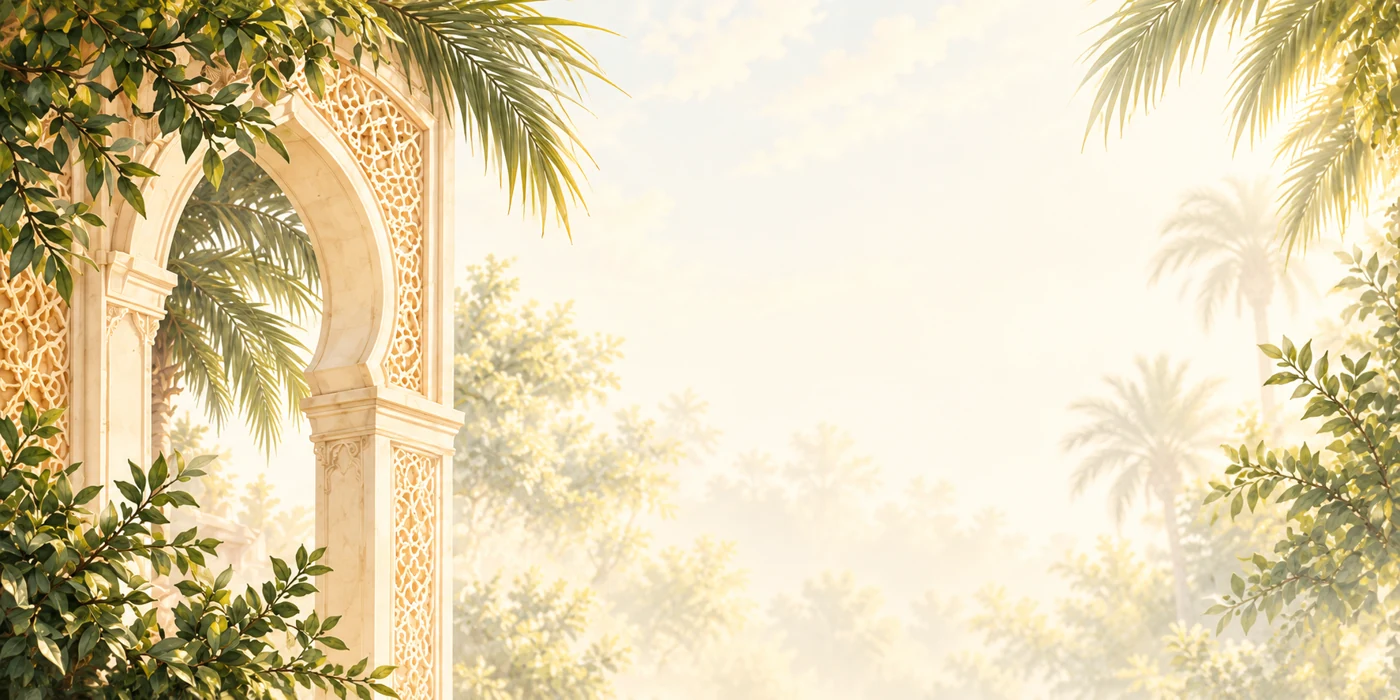
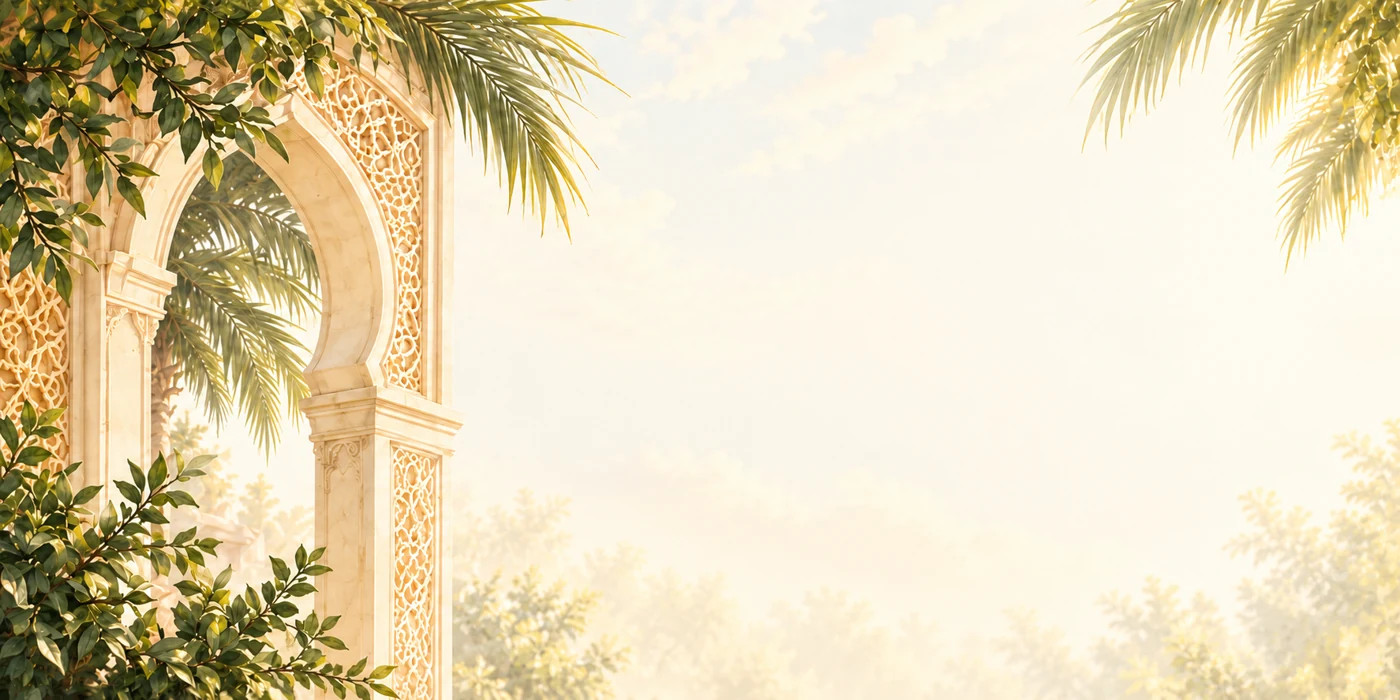
Align Ivory Home render to reference and verify 320dp navigation

diff --git a/lib/premium_ui.dart b/lib/premium_ui.dart
@@ -680,7 +680,7 @@ class _IvoryHome extends StatelessWidget {
 
   @override
   Widget build(BuildContext context) => ColoredBox(color: paper,
-    child: Center(child: ConstrainedBox(constraints: const BoxConstraints(maxWidth: 760),
+    child: Align(alignment: Alignment.topCenter, child: ConstrainedBox(constraints: const BoxConstraints(maxWidth: 760),
       child: LayoutBuilder(builder: (context, box) {
         final large = MediaQuery.textScalerOf(context).scale(14) > 20;
         final inset = box.maxWidth < 360 ? 10.0 : 13.0;
@@ -721,8 +721,8 @@ class _IvoryHome extends StatelessWidget {
       Stack(alignment: Alignment.topCenter, children: [
         SizedBox(height: 115 * unit, child: Center(child: Semantics(
           label: tr(context, 'شعار ورد'), image: true,
-          child: ExcludeSemantics(child: AppearanceWordmark(key: const Key('home-wordmark'),
-            width: 158 * unit, height: 112 * unit))))),
+          child: ExcludeSemantics(child: Transform.scale(scale: 1.35, child: AppearanceWordmark(key: const Key('home-wordmark'),
+            width: 158 * unit, height: 112 * unit)))))),
         Align(alignment: Alignment.topLeft, child: Row(mainAxisSize: MainAxisSize.min,
           textDirection: TextDirection.ltr, children: [
             _headerControl(context, 'home-settings', 'الإعدادات', Icons.settings_outlined,
@@ -754,15 +754,17 @@ class _IvoryHome extends StatelessWidget {
 
   Widget _surface({required String keyName, required AssetImage image,
       required Widget child, required VoidCallback onTap, Gradient? gradient,
-      double radius = 22}) => DecoratedBox(
+      double radius = 22, bool mirror = false}) => DecoratedBox(
     decoration: BoxDecoration(borderRadius: BorderRadius.circular(radius), boxShadow: const [
       BoxShadow(color: Color(0x0A70572D), offset: Offset(0, 3), blurRadius: 9)]),
     child: Material(color: paper, clipBehavior: Clip.antiAlias,
       shape: RoundedRectangleBorder(borderRadius: BorderRadius.circular(radius),
         side: const BorderSide(color: edge, width: .75)),
       child: Stack(children: [
-        Positioned.fill(child: Image(image: image, fit: BoxFit.cover,
-          filterQuality: FilterQuality.high, excludeFromSemantics: true)),
+        Positioned.fill(child: Transform(
+          alignment: Alignment.center, transform: Matrix4.diagonal3Values(mirror ? -1 : 1, 1, 1),
+          child: Image(image: image, fit: BoxFit.cover,
+            filterQuality: FilterQuality.high, excludeFromSemantics: true))),
         if (gradient != null) Positioned.fill(child: DecoratedBox(
           decoration: BoxDecoration(gradient: gradient))),
         InkWell(key: Key(keyName), onTap: onTap,
@@ -774,6 +776,13 @@ class _IvoryHome extends StatelessWidget {
     final done = entries.where(store.isDone).length;
     return _surface(keyName: 'home-resume', image: ivoryHomeFeature,
       onTap: () => home.resume(context),
+      mirror: Directionality.of(context) == TextDirection.ltr,
+      // Feather only the outer botanical edge, never the left architectural scene.
+      gradient: LinearGradient(
+        begin: AlignmentDirectional.centerEnd.resolve(Directionality.of(context)),
+        end: AlignmentDirectional.centerStart.resolve(Directionality.of(context)),
+        stops: const [0, .75, 1],
+        colors: const [Color(0x00FAF6E9), Color(0x00FAF6E9), Color(0xE6FAF6E9)]),
       // Text sits in the art's clear sky; only the real reading control has a fill.
       child: ConstrainedBox(constraints: BoxConstraints(minHeight: 195 * unit),
         child: Padding(padding: EdgeInsets.fromLTRB(10, 11 * unit, 14, 10 * unit),
@@ -832,8 +841,8 @@ class _IvoryHome extends StatelessWidget {
       onTap: () => openReader(context, store, section),
       gradient: night ? const LinearGradient(colors: [Color(0x18002128), Color(0x30002128)])
         : const LinearGradient(begin: Alignment.topCenter, end: Alignment.bottomCenter,
-          stops: [0, .35, .55, .77, 1],
-          colors: [Color(0x00FAF6E9), Color(0x00FAF6E9), Color(0x40FAF6E9), Color(0xE8FAF6E9), paper]),
+          stops: [0, .30, .45, .65, 1],
+          colors: [Color(0x00FAF6E9), Color(0x00FAF6E9), Color(0x40FAF6E9), Color(0xF5FAF6E9), paper]),
       child: Padding(padding: EdgeInsets.all(11 * unit),
         child: night ? ConstrainedBox(constraints: BoxConstraints(minHeight: 67 * unit),
           child: Row(children: [badge, const SizedBox(width: 12), Expanded(child: label),
@@ -872,4 +881,43 @@ class _IvoryHome extends StatelessWidget {
     return Wrap(spacing: 7, runSpacing: 8, children: cards.map((card) => SizedBox(
       width: (width - 7 * (columns - 1)) / columns, child: card)).toList());
   }
+}
+
+/// The reference's full Home selection tile, restricted to the Ivory Home.
+class _IvoryHomeNavigation extends StatelessWidget {
+  const _IvoryHomeNavigation({required this.onNavigate});
+  final ValueChanged<int> onNavigate;
+  @override
+  Widget build(BuildContext context) => ColoredBox(color: _IvoryHome.paper,
+    child: SafeArea(top: false, minimum: const EdgeInsets.fromLTRB(11, 0, 11, 5),
+      child: Container(padding: const EdgeInsets.all(5),
+        decoration: BoxDecoration(color: const Color(0xFFFFFAEF),
+          borderRadius: BorderRadius.circular(25),
+          border: Border.all(color: const Color(0xFFD0C09A), width: .75)),
+        child: Row(crossAxisAlignment: CrossAxisAlignment.start,
+          children: List.generate(4, (index) {
+            const labels = ['الرئيسية', 'الأذكار', 'النوافل', 'الإعدادات'];
+            const keys = ['nav-home', 'nav-library', 'nav-nawafil', 'nav-settings'];
+            final selected = index == 0;
+            final color = selected ? IvoryContrast.gold : IvoryContrast.ink;
+            final icon = switch (index) {
+              0 => const Icon(Icons.home_rounded),
+              1 => const Icon(Icons.auto_stories_outlined),
+              2 => const SujoodIcon(size: 29),
+              _ => const Icon(Icons.settings_outlined),
+            };
+            return Expanded(child: Semantics(selected: selected, button: true,
+              child: Material(color: selected ? const Color(0xFFF5EACF) : Colors.transparent,
+                borderRadius: BorderRadius.circular(20),
+                child: InkWell(key: Key(keys[index]), borderRadius: BorderRadius.circular(20),
+                  onTap: () => onNavigate(index),
+                  child: Padding(padding: const EdgeInsets.symmetric(vertical: 8, horizontal: 2),
+                    child: Column(mainAxisSize: MainAxisSize.min, children: [
+                      IconTheme(data: IconThemeData(color: color, size: 28), child: icon),
+                      const SizedBox(height: 3),
+                      UiText(labels[index], textAlign: TextAlign.center,
+                        style: TextStyle(color: color, fontSize: 12, height: 1.4,
+                          fontWeight: selected ? FontWeight.w700 : FontWeight.w400)),
+                    ]))))));
+          })))));
 }

diff --git a/lib/main.dart b/lib/main.dart
@@ -499,22 +499,25 @@ class _WirdShellState extends State<WirdShell> {
       DeferredSettingsPage(store: store, active: page == 3),
     ];
     final darkSurface = p.dark;
+    final homeSurface = !p.dark && page == 0 ? _IvoryHome.paper : p.homeBackground;
     return AnnotatedRegion<SystemUiOverlayStyle>(
       value: SystemUiOverlayStyle(
-        statusBarColor: p.dark ? Colors.transparent : p.homeBackground,
+        statusBarColor: p.dark ? Colors.transparent : homeSurface,
         statusBarIconBrightness: darkSurface
             ? Brightness.light
             : Brightness.dark,
         statusBarBrightness: darkSurface ? Brightness.dark : Brightness.light,
-        systemNavigationBarColor: p.homeBackground,
+        systemNavigationBarColor: homeSurface,
         systemNavigationBarIconBrightness: p.dark ? Brightness.light : Brightness.dark,
       ),
       child: Scaffold(
-        backgroundColor: p.homeBackground,
+        backgroundColor: homeSurface,
         body: SafeArea(
           child: IndexedStack(index: page, children: screens),
         ),
-        bottomNavigationBar: Container(
+        bottomNavigationBar: !p.dark && page == 0
+            ? _IvoryHomeNavigation(onNavigate: (index) => setState(() => page = index))
+            : Container(
           margin: EdgeInsets.fromLTRB(10, 4, 10, 5),
           decoration: BoxDecoration(
             borderRadius: BorderRadius.circular(29),

diff --git a/test/appearance_test.dart b/test/appearance_test.dart
@@ -200,5 +200,27 @@ void main() {
       });
     }
   }
+  for (final language in ['ar', 'en']) {
+    for (final scale in [1.0, 2.0]) {
+      testWidgets('Ivory Home 320dp $language text $scale', (t) async {
+        t.view.physicalSize = const Size(320, 700); t.view.devicePixelRatio = 1;
+        addTearDown(t.view.resetPhysicalSize); addTearDown(t.view.resetDevicePixelRatio);
+        SharedPreferences.setMockInitialValues({appearancePreference: appearanceIds[1],
+          'language': language, 'haptics': false});
+        final s = WirdState(); await s.initialize();
+        await mount(t, s, HomePage(store: s), scale: scale);
+        expect(t.takeException(), isNull);
+        await capture(t, 'ivory-home-320-$language-${scale.toInt()}-top');
+        for (final key in ['home-morning', 'home-evening', 'home-sleep', 'home-all',
+            'home-nawafil', 'home-tasbih', 'home-favorites']) {
+          await t.ensureVisible(find.byKey(Key(key))); await t.pumpAndSettle();
+          expect(t.takeException(), isNull, reason: key);
+        }
+        await capture(t, 'ivory-home-320-$language-${scale.toInt()}-bottom');
+        await t.pumpWidget(const SizedBox.shrink()); s.dispose();
+      });
+    }
+  }
+
 }
 

diff --git a/tool/ci/appearance_device_smoke.py b/tool/ci/appearance_device_smoke.py
@@ -118,6 +118,40 @@ for mode,label in [('ivory','فاتح — Ivory Serenity'),('midnight','داكن
     capture(f'android-appearance-{mode}-settings.png')
     home()
     capture(f'android-appearance-{mode}-home.png')
+    if mode == 'ivory':
+        # Exercise the new Home at 320dp, independently of the dark startup pass.
+        original_size = (width, height)
+        try:
+            adb('shell', 'wm', 'size', '640x1136')
+            adb('shell', 'wm', 'density', '320')
+            width, height = 640, 1136
+            time.sleep(2)
+            home()
+            capture('android-ivory-home-320dp-top.png')
+            tap('أذكار الصباح', scroll=True)
+            expect('الفضل والدليل والمعنى')
+            adb('shell','input','keyevent','KEYCODE_BACK')
+            home()
+            adb('shell','input','swipe','320','900','320','300','450')
+            capture('android-ivory-home-320dp-bottom.png')
+            tap('التسبيح', scroll=True)
+            expect('السبحة الشخصية')
+            adb('shell','input','keyevent','KEYCODE_BACK')
+            adb('shell','settings','put','system','font_scale','2.0')
+            time.sleep(2)
+            home()
+            capture('android-ivory-home-320dp-text200-top.png')
+            tap('أذكار المساء', scroll=True)
+            expect('الفضل والدليل والمعنى')
+            adb('shell','input','keyevent','KEYCODE_BACK')
+            checks.append('Ivory Home: 320dp, 200% text, Morning/Evening and Tasbih navigation')
+        finally:
+            adb('shell','settings','put','system','font_scale','1.0')
+            adb('shell','wm','size','reset')
+            adb('shell','wm','density','reset')
+            width, height = original_size
+            time.sleep(2)
+            home()
     tap('الأذكار',bottom=True)
     top()
     capture(f'android-appearance-{mode}-library.png')

diff --git a/tool/ci/compare_ivory_reference.py b/tool/ci/compare_ivory_reference.py
@@ -1,0 +1,29 @@
+"""Create a labeled review sheet from actual PNGs, never a simulated app render."""
+import argparse
+from pathlib import Path
+from PIL import Image, ImageDraw
+
+parser = argparse.ArgumentParser()
+parser.add_argument('--reference', required=True)
+parser.add_argument('--before', required=True)
+parser.add_argument('--after', required=True)
+parser.add_argument('--output', required=True)
+args = parser.parse_args()
+reference = Image.open(args.reference).convert('RGB')
+# The approved attachment includes a phone frame and dark exterior. Crop only
+# that exterior; keep the full illustrated content inside the phone.
+sx, sy = reference.width / 1086, reference.height / 1448
+reference = reference.crop(tuple(round(v * scale) for v, scale in
+    zip((212, 40, 876, 1412), (sx, sy, sx, sy))))
+images = [reference, Image.open(args.before).convert('RGB'), Image.open(args.after).convert('RGB')]
+labels = ['APPROVED REFERENCE (phone exterior removed)', 'BEFORE — actual Android', 'AFTER — actual Android']
+height, gutter, top = 1600, 24, 70
+scaled = [im.resize((round(im.width * height / im.height), height), Image.Resampling.LANCZOS) for im in images]
+canvas = Image.new('RGB', (sum(im.width for im in scaled) + gutter * 4, height + top + gutter), '#e8e3d7')
+draw = ImageDraw.Draw(canvas)
+x = gutter
+for label, im in zip(labels, scaled):
+    draw.text((x, 24), label, fill='#173c2e')
+    canvas.paste(im, (x, top)); x += im.width + gutter
+Path(args.output).parent.mkdir(parents=True, exist_ok=True)
+canvas.save(args.output)
